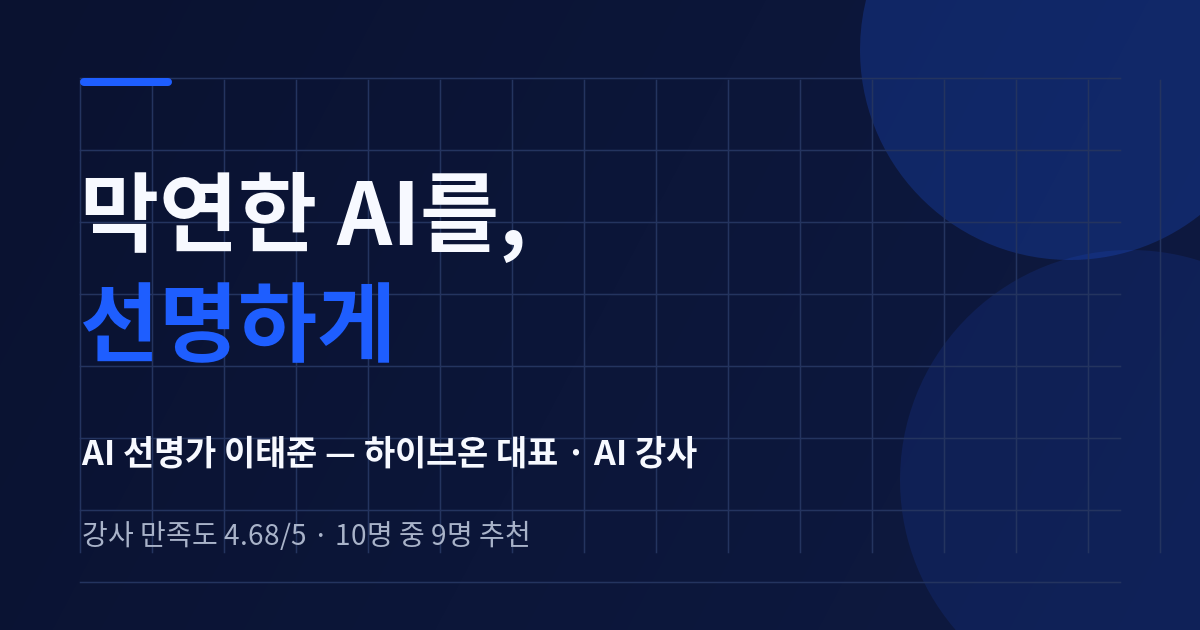
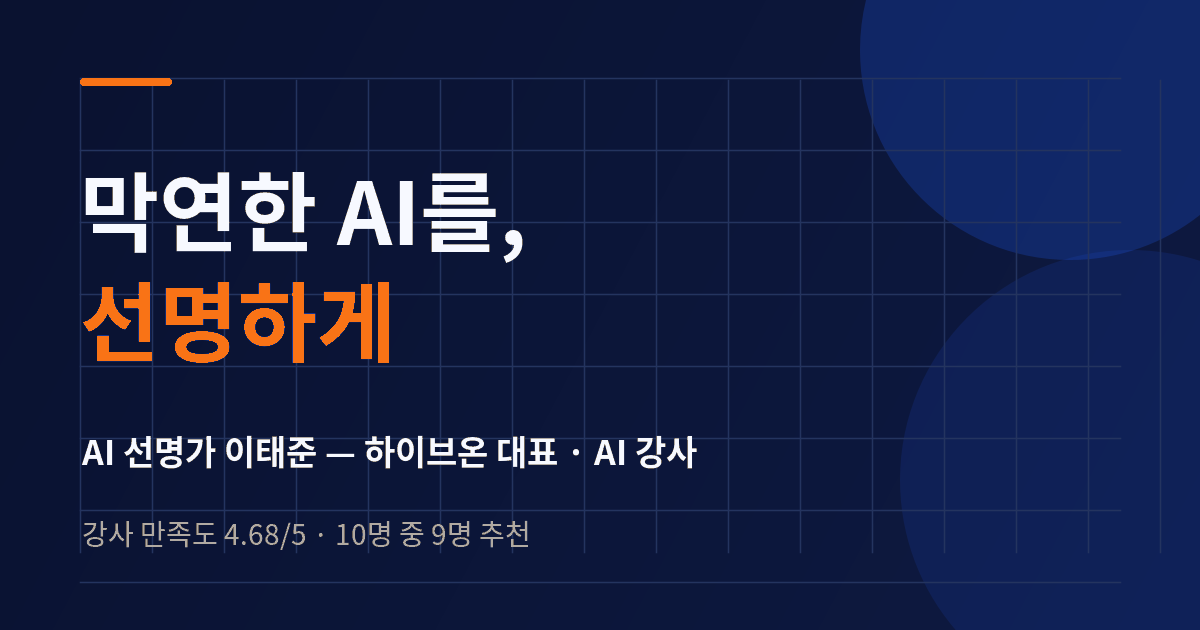
Switch blue accents to orange

diff --git a/style.css b/style.css
@@ -2,9 +2,9 @@
   --ink:#f7f6f2;
   --paper:#0e1116;
   --line:#2a2d32;
-  --accent:#4d85ff;       /* 선명 블루 */
-  --accent-soft:rgba(30,94,255,0.1);
-  --muted:#a0a7b1;
+  --accent:#f97316;       /* 선명 오렌지 */
+  --accent-soft:rgba(249,115,22,0.12);
+  --muted:#b1aaa2;
   --surface:#171a20;
   --ink-fixed:#0e1116;     /* 테마와 무관하게 항상 어두운 면 */
   --paper-fixed:#f7f6f2;   /* 위 면 위의 밝은 글자 */
@@ -85,7 +85,7 @@ nav ul a:hover{color:var(--ink)}
 header{
   padding:110px 0 90px;border-bottom:1px solid var(--line);overflow:hidden;
   background:
-    linear-gradient(rgba(7,12,35,.85),rgba(7,12,35,.72)),
+    linear-gradient(rgba(38,17,7,.84),rgba(38,17,7,.70)),
     url("/assets/lecture-1-hero.webp") center right/cover no-repeat;
   background-attachment:scroll;color:#fff;
 }
@@ -118,7 +118,7 @@ h1 .clear{color:var(--accent)}
   display:inline-block;padding:13px 26px;border-radius:8px;font-weight:700;font-size:.94rem;
   text-decoration:none;transition:transform .15s,box-shadow .15s;
 }
-.btn-primary{background:var(--accent);color:#fff;box-shadow:0 6px 18px rgba(30,94,255,.25)}
+.btn-primary{background:var(--accent);color:#fff;box-shadow:0 6px 18px rgba(249,115,22,.28)}
 .btn-primary:hover{transform:translateY(-2px)}
 .btn-ghost{border:1.5px solid var(--ink);color:var(--ink)}
 .btn-ghost:hover{background:var(--ink);color:var(--paper)}
@@ -128,7 +128,7 @@ header .btn-ghost:hover{background:#fff;color:#0e1116}
   header{
     padding:86px 0 72px;
     background:
-      linear-gradient(rgba(7,12,35,.88),rgba(7,12,35,.78)),
+      linear-gradient(rgba(38,17,7,.88),rgba(38,17,7,.78)),
       url("/assets/lecture-1-hero.webp") 62% center/cover no-repeat;
     background-attachment:scroll;
   }
@@ -150,7 +150,7 @@ h2{font-size:clamp(1.5rem,3.4vw,2.1rem);font-weight:800;letter-spacing:-.025em;l
   border-radius:14px;padding:46px 44px;
 }
 .thesis p.big{font-size:clamp(1.2rem,2.6vw,1.55rem);font-weight:700;letter-spacing:-.02em;line-height:1.6}
-.thesis p.big em{font-style:normal;color:#7da3ff}
+.thesis p.big em{font-style:normal;color:#ffb26b}
 .thesis .arrow-row{
   display:flex;align-items:center;gap:18px;margin-top:30px;flex-wrap:wrap;
 }
@@ -186,10 +186,10 @@ h2{font-size:clamp(1.5rem,3.4vw,2.1rem);font-weight:800;letter-spacing:-.025em;l
 .identity-mini-stats span{font-size:.75rem;font-weight:700;color:var(--muted)}
 .profile-frame{
   position:relative;height:100%;min-height:340px;overflow:hidden;
-  border-radius:20px;background:radial-gradient(ellipse at 50% 30%, #2b3247 0%, #161a28 70%);
+  border-radius:20px;background:radial-gradient(ellipse at 50% 30%, #493122 0%, #1f1814 70%);
 }
 .profile-panel-label{
-  position:absolute;left:22px;top:20px;z-index:2;color:#1e5eff;
+  position:absolute;left:22px;top:20px;z-index:2;color:#fb923c;
   font-size:11px;font-weight:800;letter-spacing:.1em;
 }
 .profile-photo-crop{
@@ -252,7 +252,7 @@ h2{font-size:clamp(1.5rem,3.4vw,2.1rem);font-weight:800;letter-spacing:-.025em;l
 /* ---------- 트랙 레코드 ---------- */
 #record{
   background:
-    linear-gradient(rgba(7,12,35,.82),rgba(7,12,35,.78)),
+    linear-gradient(rgba(38,17,7,.82),rgba(38,17,7,.78)),
     url("/assets/lecture-2-record.webp") center right/cover no-repeat;
   background-attachment:scroll;color:#fff;
 }
@@ -266,12 +266,12 @@ h2{font-size:clamp(1.5rem,3.4vw,2.1rem);font-weight:800;letter-spacing:-.025em;l
 }
 .org{
   min-height:86px;padding:16px 14px;border:1px solid rgba(247,249,255,.16);border-radius:10px;
-  background:rgba(10,14,28,.56);box-shadow:inset 0 1px 0 rgba(255,255,255,.06);
+  background:rgba(31,18,10,.58);box-shadow:inset 0 1px 0 rgba(255,255,255,.06);
   display:flex;flex-direction:column;justify-content:space-between;gap:12px;color:#fff;
 }
 .org-mark{
   display:flex;align-items:center;justify-content:center;width:44px;height:28px;border-radius:6px;
-  background:rgba(247,249,255,.92);color:#101522;font-size:.76rem;font-weight:900;letter-spacing:.02em;
+  background:rgba(255,247,237,.92);color:#25130a;font-size:.76rem;font-weight:900;letter-spacing:.02em;
 }
 .org span:last-child{
   font-size:.86rem;font-weight:800;letter-spacing:-.02em;line-height:1.35;
@@ -319,12 +319,12 @@ blockquote em{font-style:normal;color:var(--accent);font-weight:700}
 
 /* ---------- contact ---------- */
 .contact{background:var(--ink-fixed);color:var(--paper-fixed);border-bottom:none}
-.contact .sec-label{color:#7da3ff}
+.contact .sec-label{color:#ffb26b}
 .contact h2{color:var(--paper-fixed)}
 .contact .lead{color:rgba(247,246,242,.7)}
 .contact .btn-ghost{border-color:rgba(247,246,242,.6);color:var(--paper-fixed)}
 .contact .btn-ghost:hover{background:var(--paper-fixed);color:var(--ink-fixed)}
-.response-note{margin-top:18px;font-size:.95rem;font-weight:700;color:#7da3ff}
+.response-note{margin-top:18px;font-size:.95rem;font-weight:700;color:#ffb26b}
 .contact-form{
   margin-top:38px;max-width:760px;display:grid;gap:18px;
 }
@@ -349,8 +349,8 @@ blockquote em{font-style:normal;color:var(--accent);font-weight:700}
 .contact-form input:focus,
 .contact-form select:focus,
 .contact-form textarea:focus{
-  border-color:#7da3ff;background:rgba(247,246,242,.12);
-  box-shadow:0 0 0 3px rgba(125,163,255,.18);
+  border-color:#ffb26b;background:rgba(247,246,242,.12);
+  box-shadow:0 0 0 3px rgba(249,115,22,.22);
 }
 .contact-form option{color:#0e1116}
 .hidden-field{
